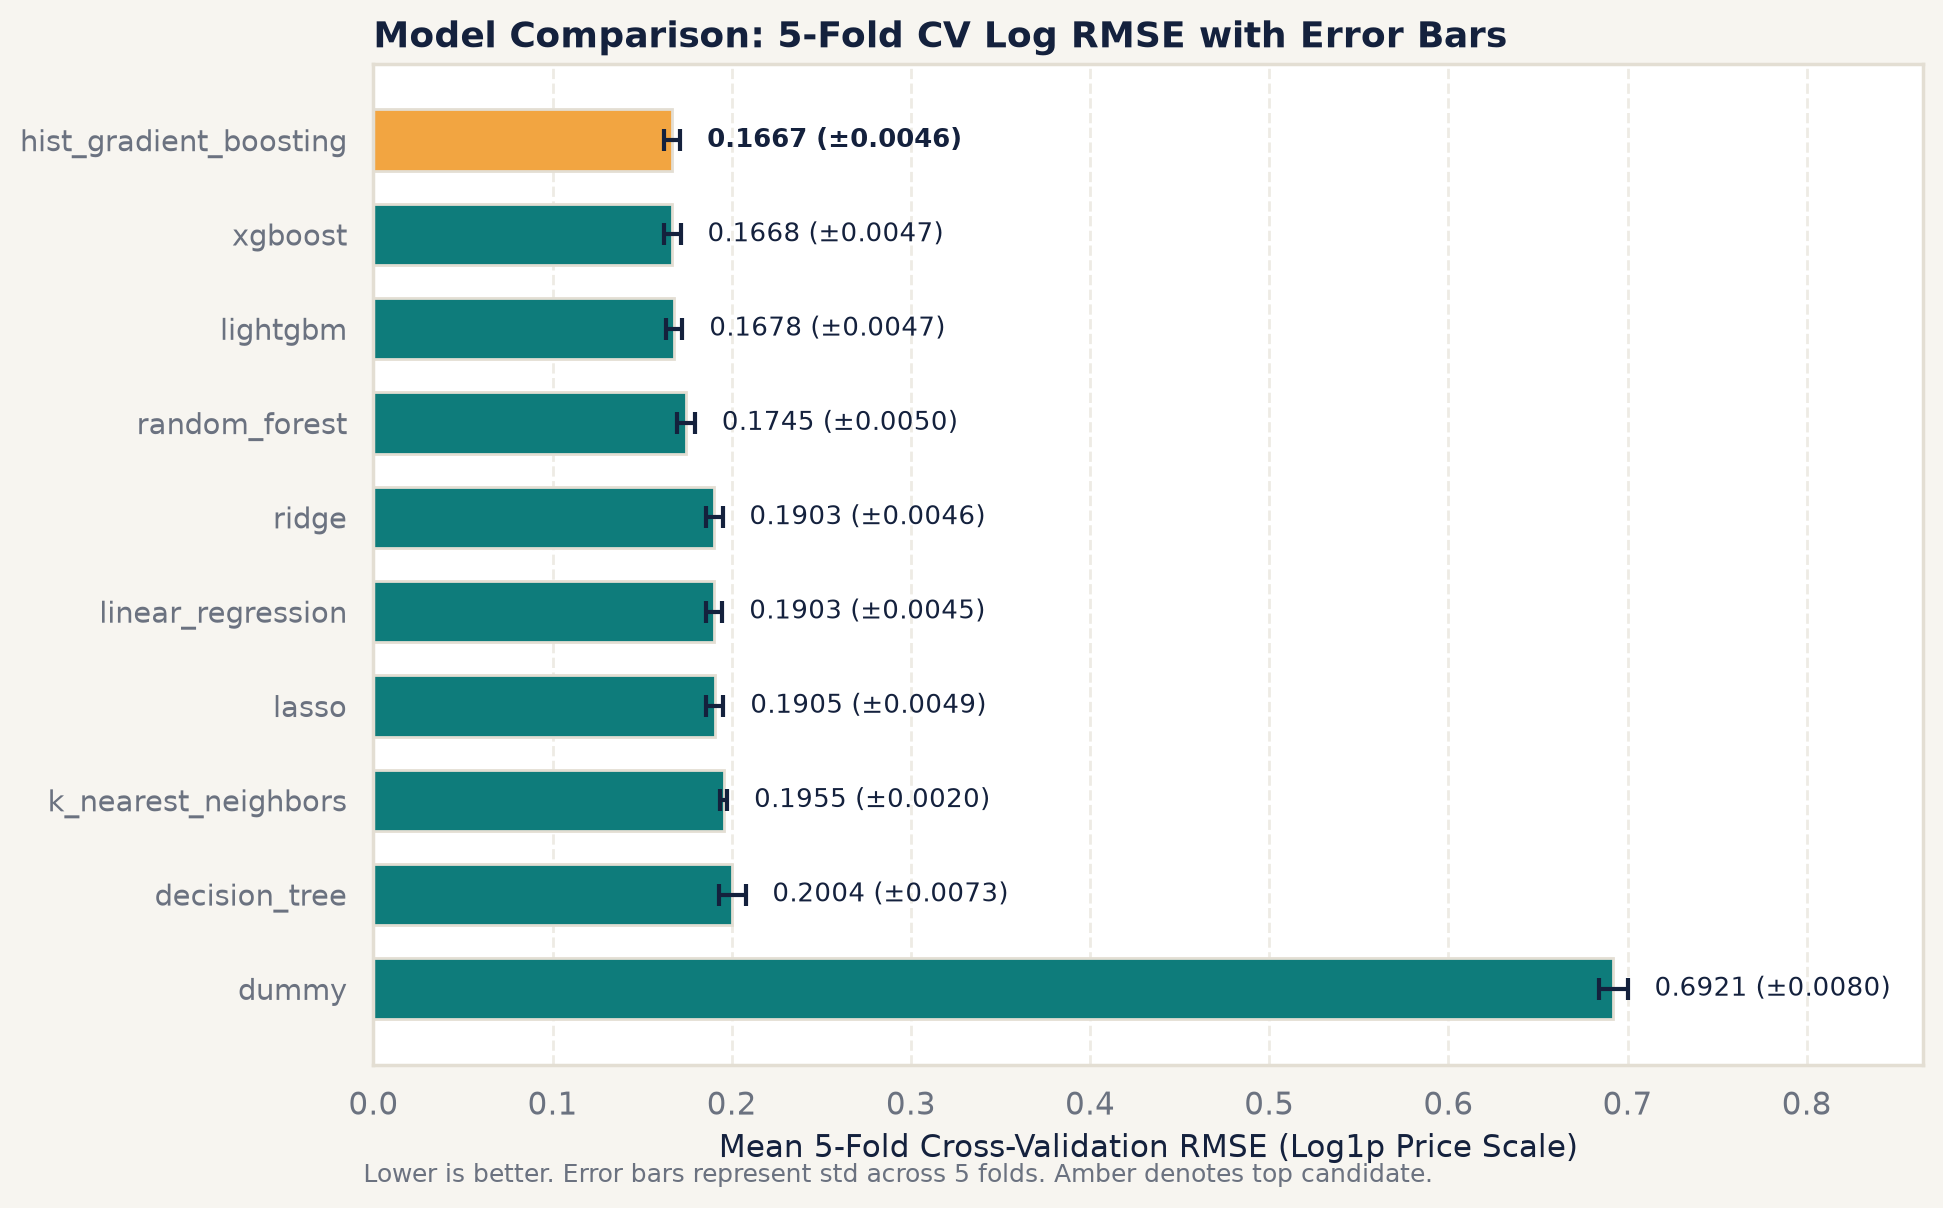
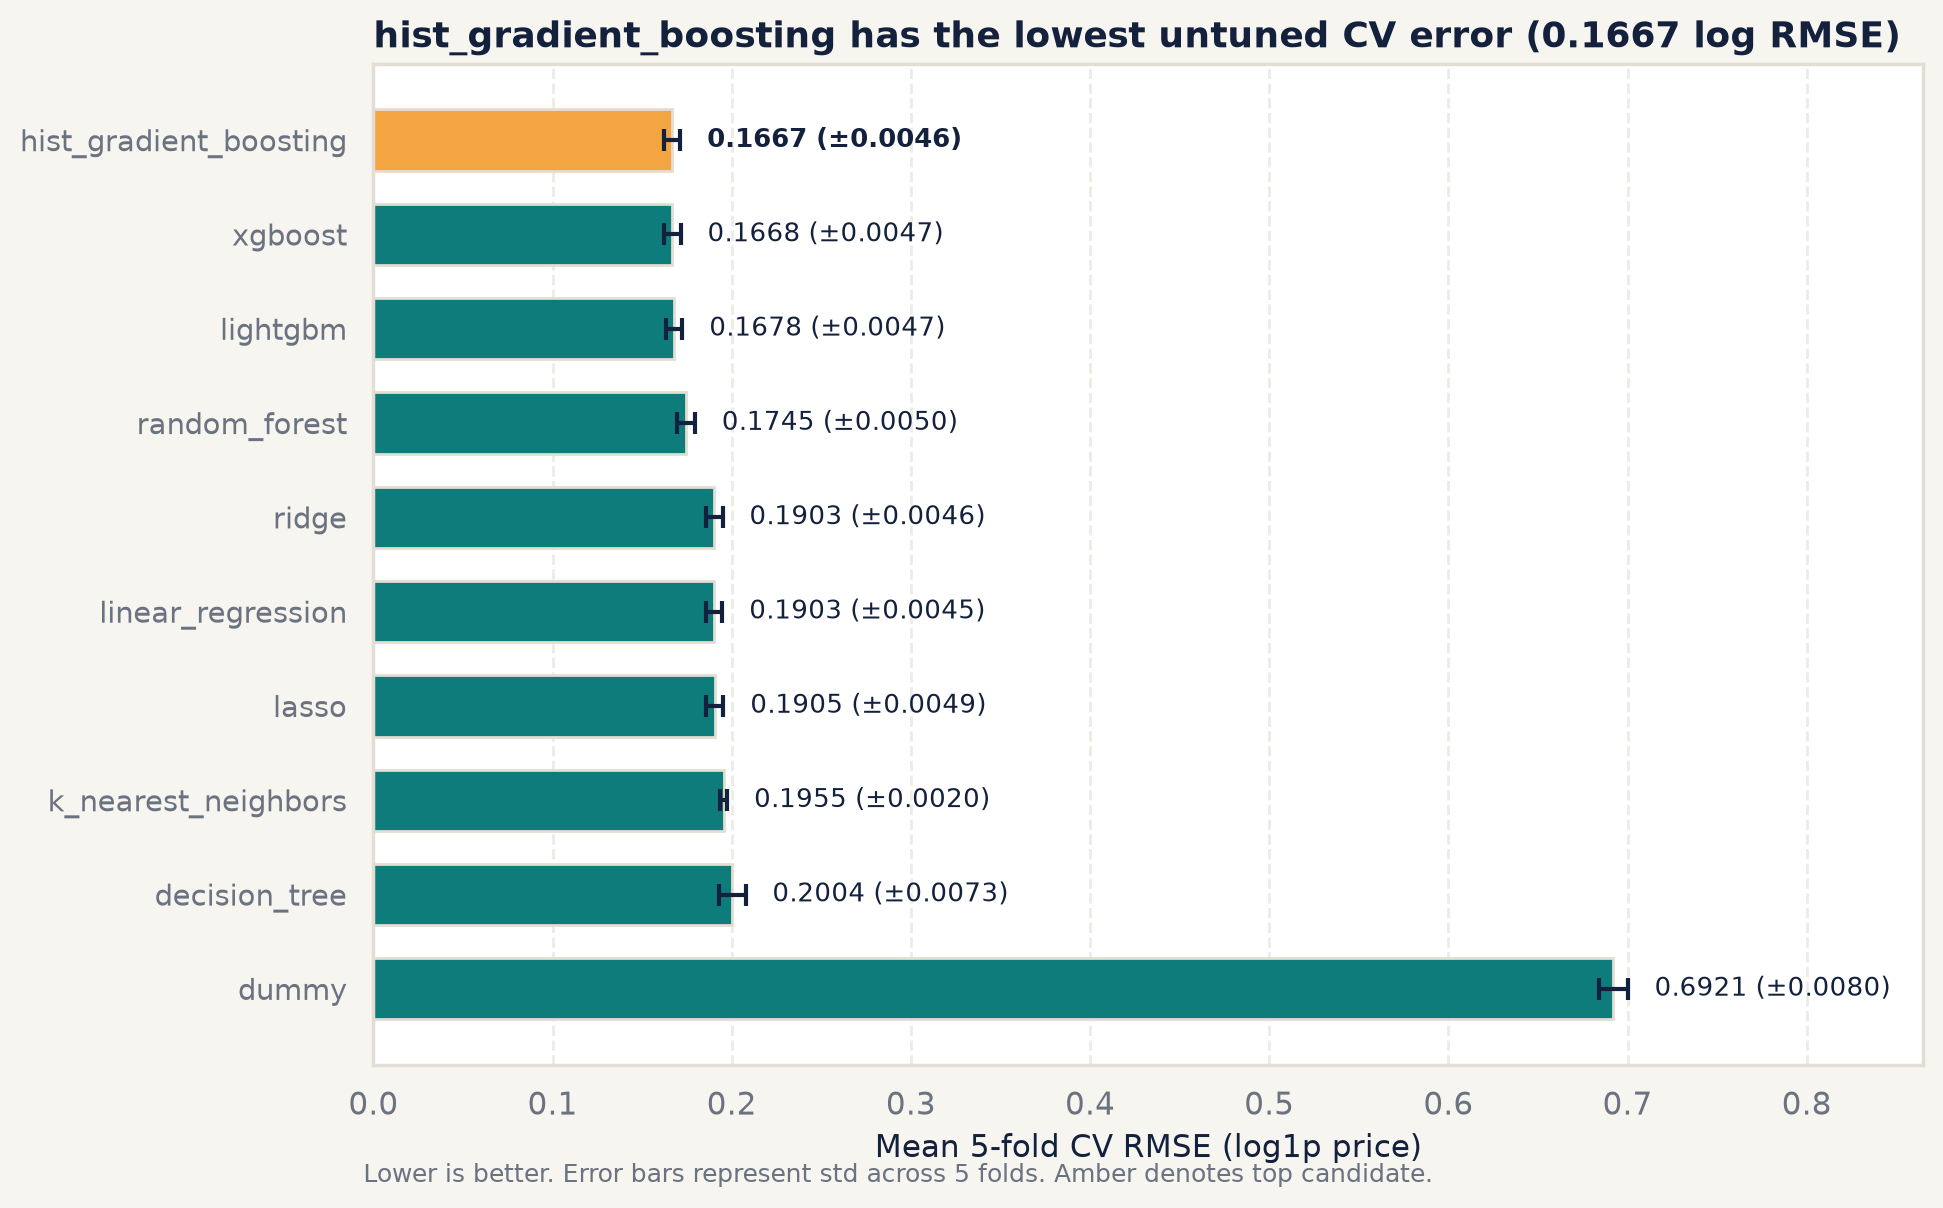
phase-4: correct decision log and document reproduction commands

Changed region(s): [[0.1853, 0.0, 0.9882, 0.0613], [0.4323, 0.9189, 0.8029, 0.9801], [0.3706, 0.9189, 0.4014, 0.9801]]

diff --git a/tasks.py b/tasks.py
@@ -122,6 +122,16 @@ def run_module(module: str, *args: str) -> int:
     return run_command([py, "-c", code, *args])
 
 
+def eda() -> int:
+    """Phase 2: regenerate EDA figures and tables (the notebook holds the narrative)."""
+    py = str(PYTHON_EXE if PYTHON_EXE.exists() else sys.executable)
+    code = (
+        "import sys; sys.path.insert(0, 'src'); "
+        "from carprice.viz import run_eda_pipeline; run_eda_pipeline()"
+    )
+    return run_command([py, "-c", code])
+
+
 def split() -> int:
     """Phase 3: write the stratified train/test split and the measured feature checks."""
     return run_module("carprice.features")
@@ -153,6 +163,7 @@ def main() -> None:
             "setup",
             "clean",
             "clean-data",
+            "eda",
             "split",
             "train",
             "evaluate",
@@ -168,6 +179,7 @@ def main() -> None:
         "setup": setup,
         "clean": clean,
         "clean-data": clean_data,
+        "eda": eda,
         "split": split,
         "train": train,
         "evaluate": evaluate,

diff --git a/decisions.md b/decisions.md
@@ -169,6 +169,7 @@ This log records every non-trivial design, modeling, cleaning, and architectural
 - **Reason:** Empirical evidence shows automatic gearboxes command a statistically significant 2.74x premium ($p < 0.001$) across all power bands; engine displacement and power exhibit collinearity (VIF 6.41 and 4.56); and rare brands cause sparse high-dimensional one-hot matrices unless consolidated into structured market tiers.
 - **Evidence:** `reports/figures/eda_20_scatter_price_vs_power.png`, `reports/figures/eda_24_interaction_power_transmission.png`, `reports/tables/eda_vif_summary.csv`, `reports/tables/eda_brand_medians.csv`.
 - **Impact / how to reverse:** Implemented as a leak-free scikit-learn transformer in `src/carprice/features.py` during Phase 3.
+- **Revision (2026-11-08, see D-021):** these were *proposals*. Phase 3 screening (D-013) decided the final set. `power_x_automatic` was measured and rejected (ΔRMSE 0.0000). `brand_tier` was never added to the pipeline; brand information reaches the model through one-hot `brand` (rare levels grouped, D-015) and the `is_luxury_brand` flag.
 
 ---
 
@@ -197,24 +198,26 @@ This log records every non-trivial design, modeling, cleaning, and architectural
 - **Decision:** Adopt option (b) with global seed 42.
 - **Reason:** Stratifying on 5 price quintiles guarantees that budget cars, mainstream commuters, and rare ultra-luxury supercars are equally represented across both train and test partitions within $< 2\%$ deviation. The test set is written to `data/processed/test.csv` and indices to `split_indices.json`, remaining completely locked from all Phase 3 and Phase 4 model training and feature fitting code.
 - **Evidence:** `data/processed/split_indices.json`, `tests/test_features.py` test `test_split_shapes_and_disjoint`.
-- **Impact / how to reverse:** Configured in `configs/config.yaml` (`splitting.test_size: 0.2`, `project.random_seed: 42`) and managed by `create_train_test_split()`.
+- **Impact / how to reverse:** Configured in `configs/config.yaml` (`splitting.test_size: 0.2`, `splitting.stratify_by: selling_price`, `splitting.stratify_bins: 5`, `project.random_seed: 42`) and managed by `create_train_test_split()`. Re-running `python tasks.py split` reproduces `split_indices.json` byte-for-byte (verified 2026-11-08, D-021).
 
 ---
 
 ### D-013: Candidate Feature Engineering Evaluations and Selection Decisions
 
-- **Date / Phase:** 2026-11-07 / Phase 3
-- **Context:** EDA proposed candidate domain features. Each candidate was independently evaluated via 5-fold cross-validation on `train.csv` only against a baseline Ridge regression model (Baseline CV RMSE: 0.2020):
-  - *Candidate 1 (`km_per_year`):* $\text{km\_driven} / \max(\text{vehicle\_age}, 1)$ $\rightarrow$ RMSE: 0.2018 ($\Delta = -0.0002$) $\rightarrow$ **KEEP**.
-  - *Candidate 2 (`power_per_litre`):* $\text{max\_power} / (\text{engine} / 1000)$ $\rightarrow$ RMSE: 0.2016 ($\Delta = -0.0005$) $\rightarrow$ **KEEP**.
-  - *Candidate 3 (`log_km_driven`):* $\log(1 + \text{km\_driven})$ $\rightarrow$ RMSE: 0.2025 ($\Delta = +0.0004$) $\rightarrow$ **REJECT**. Degrades linear scores when km is already capped at 500,000 km.
-  - *Candidate 4 (`is_luxury_brand`):* Binary indicator for luxury/ultra-luxury marques $\rightarrow$ RMSE: 0.2014 ($\Delta = -0.0006$) $\rightarrow$ **KEEP**.
-  - *Candidate 5 (`age_x_power`):* Interaction between vehicle age and engine power $\rightarrow$ RMSE: 0.1925 ($\Delta = -0.0095$) $\rightarrow$ **KEEP**. Substantially benefits linear baselines by capturing accelerated power depreciation.
-  - *Combined Kept Features:* Drops overall Ridge CV RMSE from 0.2020 down to **0.1910** ($\Delta = -0.0110$).
-- **Decision:** Retain `km_per_year`, `power_per_litre`, `is_luxury_brand`, and `age_x_power`; reject `log_km_driven`.
-- **Reason:** Every retained feature demonstrably improves cross-validation accuracy on the training partition and reflects physical domain validity.
-- **Evidence:** `reports/tables/feature_checks.csv`.
-- **Impact / how to reverse:** Implemented in `DomainFeatureEngineer` inside `src/carprice/features.py`.
+- **Date / Phase:** 2026-11-07 / Phase 3 (numbers corrected 2026-11-08, see D-021)
+- **Context:** EDA proposed candidate domain features (D-010). Each candidate was added to a scaled Ridge probe (`build_ridge_probe()`, alpha from `feature_checks.probe_ridge_alpha`) and scored by 5-fold CV log RMSE on `train.csv` only. Baseline CV RMSE without any candidate: **0.2020**.
+  - *`km_per_year`:* $	ext{km\_driven} / \max(	ext{vehicle\_age}, 1)$ → 0.2018 (Δ −0.0002) → **KEEP**.
+  - *`power_per_litre`:* $	ext{max\_power} / (	ext{engine} / 1000)$ → 0.2016 (Δ −0.0005) → **KEEP**.
+  - *`log_km_driven`* (replacing raw `km_driven`) → 0.2025 (Δ +0.0004) → **REJECT**. km is already capped at 500,000 (D-004), so the log adds nothing for a linear model.
+  - *`is_luxury_brand`:* binary flag for the marques in `features.luxury_brands` → 0.2009 (Δ −0.0011) → **KEEP**.
+  - *`age_x_power`:* vehicle age × max power → 0.1925 (Δ −0.0095) → **KEEP**. Lets a linear model capture faster depreciation of powerful cars.
+  - *`power_x_automatic`:* max power × automatic flag → 0.2021 (Δ 0.0000) → **REJECT**. The automatic premium (D-010) is already captured by one-hot `transmission_type`.
+  - *All four kept features together:* **0.1903** (Δ −0.0117), the same value as the Ridge row in `cv_results.csv`.
+- **Decision rule:** keep a candidate only if it lowers CV log RMSE by at least `feature_checks.min_rmse_gain` (0.0001).
+- **Decision:** Retain `km_per_year`, `power_per_litre`, `is_luxury_brand`, `age_x_power`; reject `log_km_driven` and `power_x_automatic`.
+- **Reason:** Every retained feature measurably improves CV accuracy on the training partition and has a physical interpretation. The gains for three of the four are small (≤ 0.0011); `age_x_power` carries most of the benefit.
+- **Evidence:** `reports/tables/feature_checks.csv` (generated by `evaluate_feature_candidates()`); `tests/test_features.py::test_saved_feature_checks_match_pipeline_features` asserts that the KEEP rows equal the pipeline's engineered features.
+- **Impact / how to reverse:** Implemented in `DomainFeatureEngineer` inside `src/carprice/features.py`; re-run with `python tasks.py split`.
 
 ---
 
@@ -232,18 +235,20 @@ This log records every non-trivial design, modeling, cleaning, and architectural
 
 ---
 
-### D-015: Brand-Tier Mapping and Equity Hierarchy
+### D-015: Rare-Brand Handling and the Brand-Tier Mapping
 
-- **Date / Phase:** 2026-11-07 / Phase 3
+- **Date / Phase:** 2026-11-07 / Phase 3 (corrected 2026-11-08, see D-021)
 - **Context:** The cleaned dataset features 31 automotive brands, 14 of which have $< 30$ listings.
 - **Options considered:**
-  - (a) Rely entirely on unregularized one-hot dummy variables.
-  - (b) Group all rare brands under a generic "Other" category.
-  - (c) Establish an auditable 5-tier brand hierarchy (`Budget`, `Mid`, `Premium`, `Luxury`, `Ultra-Luxury`) in `configs/config.yaml` combined with a `RareCategoryEncoder(min_frequency=20)`.
-- **Decision:** Adopt option (c).
-- **Reason:** Phase 2 EDA confirmed that brand medians stratify into well-defined valuation bands. Grouping infrequent brands into tiers preserves high-level equity context without creating high-variance sparse columns.
-- **Evidence:** `configs/config.yaml`, `reports/tables/eda_brand_medians.csv`, `reports/tables/eda_rare_brands.csv`.
-- **Impact / how to reverse:** Configured in `configs/config.yaml` under `features.brand_tier_mapping` and `features.luxury_brands`.
+  - (a) Unregularized one-hot dummies for every brand.
+  - (b) Group rare brands into a generic "Other" level, learned per training fold.
+  - (c) Replace brand with a hand-built 5-tier hierarchy (`Budget` … `Ultra-Luxury`).
+- **Decision:** Option (b): `RareCategoryEncoder(min_frequency=20)` followed by one-hot encoding, plus the binary `is_luxury_brand` flag from D-013. The 5-tier `features.brand_tier_mapping` in `config.yaml` is **not** an input to the model; it is kept only as a reference grouping for reporting and the GUI.
+- **Correction:** the original entry stated that option (c) was adopted. The code never used the tier mapping, so the entry was wrong, not the model.
+- **Two thresholds, two purposes:** `eda.rare_brand_report_threshold: 30` is the descriptive cut-off used to list rare brands in `eda_rare_brands.csv` (Phase 2). `features.rare_category_min_frequency: 20` is the modelling threshold, applied inside each training fold so that no test rows influence which brands are kept.
+- **Reason:** Fold-wise grouping avoids sparse, high-variance dummy columns while staying leak-free. A tier mapping derived from full-dataset brand medians would have let test-set prices shape a feature, which is why it is not used for modelling.
+- **Evidence:** `configs/config.yaml`, `src/carprice/features.py::build_preprocessor`, `reports/tables/eda_brand_medians.csv`, `reports/tables/eda_rare_brands.csv`.
+- **Impact / how to reverse:** Change `features.rare_category_min_frequency` and re-run `python tasks.py train`.
 
 ---
 
@@ -265,14 +270,14 @@ This log records every non-trivial design, modeling, cleaning, and architectural
   10. `lightgbm`: Leaf-wise gradient tree boosting optimized for speed and tabular accuracy.
 - **Reason:** Establishes an academically rigorous benchmark across inductive biases, proving whether complex non-linear tree ensembles justify added computational cost over regularized linear baselines.
 - **Evidence:** `reports/tables/model_candidates.csv`, `reports/tables/cv_results.csv`, `reports/figures/model_cv_comparison.png`.
-- **Impact / how to reverse:** Configured in `configs/config.yaml` under `models.candidates`.
+- **Impact / how to reverse:** Configured in `configs/config.yaml` under `models.candidates`; untuned settings for each model are in `models.candidate_params`.
 
 ---
 
 ### D-017: Target Transformation Architecture (TransformedTargetRegressor)
 
 - **Date / Phase:** 2026-11-08 / Phase 4
-- **Context:** Car selling prices exhibit extreme right-skewness (skewness = 10.05 raw vs 0.57 on log1p scale) and heteroscedastic error dispersion.
+- **Context:** Car selling prices exhibit extreme right-skewness and heteroscedastic error dispersion. On the cleaned data used for EDA and modelling the skewness is 10.11, falling to 0.56 on the log1p scale (D-009, `reports/figures/eda_01_selling_price_raw_vs_log.png`). The raw 15,411-row file gives 10.05 and 0.57; the small difference comes from the 167 duplicates removed in D-003.
 - **Options considered:**
   - (a) Direct regression on raw rupee prices with MSE loss (causes extreme gradient instability on luxury supercars).
   - (b) Ad-hoc manual target logging before training and manual expm1 inverse transformation at inference.
@@ -295,7 +300,7 @@ This log records every non-trivial design, modeling, cleaning, and architectural
 - **Decision:** Adopt option (c) across the top candidate models (`xgboost`, `lightgbm`, `hist_gradient_boosting`).
 - **Reason:** TPE explores complex non-linear parameter interactions far more efficiently than random guessing. Precomputing fold transforms ($X_{tr, k}, X_{val, k}$) strictly on each training fold once reduces tuning latency by $> 85\%$ while remaining 100% leak-free and mathematically identical to in-loop pipeline fits.
 - **Evidence:** `reports/tables/tuning_trials_*.csv`, `models/best_params.json`, `reports/figures/tuning_history.png`, `reports/figures/tuning_param_importances.png`.
-- **Impact / how to reverse:** Configured in `configs/config.yaml` (`models.tuning_trials: 35`).
+- **Impact / how to reverse:** Configured in `configs/config.yaml` (`models.tuning_trials: 35`, `models.timeout_seconds`, and the per-model ranges under `models.search_spaces`). Key order in each search space is the order Optuna suggests parameters, so it must not be re-sorted if trials are to be reproduced.
 
 ---
 
@@ -327,7 +332,24 @@ This log records every non-trivial design, modeling, cleaning, and architectural
 
 ---
 
+### D-022: Pre-Split Steps That Use the Whole Dataset (Leakage Risk Assessment)
+
+- **Date / Phase:** 2026-11-08 / Phase 4 review
+- **Context:** A4 forbids computing statistics on the full dataset before splitting. Three earlier choices touch the full dataset, so each was checked.
+- **Findings:**
+  1. *Seat imputation (D-006):* the brand/model modal seat count is computed on all 15,244 rows before the split. It affects 2 rows, uses no price information, and the imputed value (5) is a published manufacturer spec for both cars. **Risk: negligible.** Left as is.
+  2. *Brand-tier mapping (D-010/D-015):* derived from full-dataset brand median prices, so it **would** leak test prices, but it is not used by the model pipeline (D-015 correction). **Risk: none for the model**; reporting/GUI only.
+  3. *`luxury_brands` list (D-013):* a fixed list of marques chosen from domain knowledge (premium European/Japanese luxury makers). It is not fitted from prices. **Risk: low.** One could argue the EDA price ranking informed the list; this is noted for the viva.
+  4. *Everything fitted from data inside the model* (imputer, scaler, rare-category grouping, one-hot, TargetEncoder) sits inside the Pipeline and is fitted per training fold. `load_training_data()` refuses to read `test.csv`, and `tests/test_train.py::test_train_module_never_reads_test_csv` checks it.
+- **Decision:** No change to the trained model. Findings recorded here for transparency.
+- **Evidence:** `src/carprice/data.py::fix_invalid_seats`, `src/carprice/features.py`, `configs/config.yaml`.
+- **Impact / how to reverse:** To remove finding 1 entirely, move seat imputation into the Pipeline as a fitted transformer and retrain; expected effect on metrics is nil (2 rows).
+
+---
+
 ## Open questions for the student
 
-- None currently for Phase 0.
+1. **Encoder choice depends on the model family (D-014).** For the Ridge probe one-hot encoding of `model` beats TargetEncoder; for the tuned XGBoost winner TargetEncoder wins (see `reports/tables/encoder_comparison.csv`). The production pipeline keeps TargetEncoder because the deployed model is XGBoost. Do you want the linear baseline (`baseline_ridge.joblib`) switched to one-hot so the Ridge comparison in Phase 5 is fairer? This would change Ridge's numbers but not the final model.
+2. **Brand-tier mapping (D-015).** It is now documented as reporting-only. Keep it for the GUI's Market Explorer, or delete it from `config.yaml`?
+3. **Seat imputation before the split (D-022, finding 1).** Accept as negligible, or move it into the Pipeline for strict compliance with A4?
 

diff --git a/README.md b/README.md
@@ -46,7 +46,11 @@ Valuing used cars accurately requires accounting for multifaceted vehicular attr
 ├── notebooks/                 # Narrative Jupyter notebooks for EDA and evaluation
 ├── src/carprice/              # Core reusable Python package
 │   ├── __init__.py
-│   └── config.py              # Strongly-typed frozen config dataclasses
+│   ├── config.py              # Strongly-typed frozen config dataclasses
+│   ├── data.py                # Load, validate, audit, clean (Phase 1)
+│   ├── viz.py                 # Shared plot style and EDA figures (Phase 2)
+│   ├── features.py            # Split, feature engineering, ColumnTransformer (Phase 3)
+│   └── train.py               # CV benchmark, Optuna tuning, final pipeline (Phase 4)
 ├── app/                       # Streamlit web application
 ├── models/                    # Saved pipeline artifacts (.joblib) and metadata JSON
 ├── reports/                   # Figures, summary tables, and final report
@@ -94,7 +98,32 @@ python tasks.py test
 python tasks.py lint
 ```
 
-### 4. Launch the Web Application
+### 4. Reproduce the Pipeline (Phases 1 to 4)
+
+Run these in order from the project root. Every step reads its settings from
+`configs/config.yaml` and uses the global seed, so re-running gives the same numbers.
+
+```bash
+# Phase 1: audit tables + cleaned data (data/interim/cars_clean.csv)
+python tasks.py clean-data
+
+# Phase 2: EDA figures and tables (narrative lives in notebooks/02_eda.ipynb)
+python tasks.py eda
+
+# Phase 3: stratified train/test split + measured feature checks
+python tasks.py split
+
+# Phase 4: CV benchmark, Optuna tuning, final pipeline, encoder comparison
+#          (writes models/*.joblib, models/model_card.json, reports/tables/*.csv)
+python tasks.py train
+```
+
+The saved `.joblib` pipelines are not committed to git, so a fresh clone must run
+`python tasks.py train` before the tests or the app can load the model. Run-time
+columns (`fit_time_sec`, `pred_time_sec`) and trial timestamps vary between machines;
+every score and parameter does not.
+
+### 5. Launch the Web Application
 
 ```bash
 python tasks.py app
